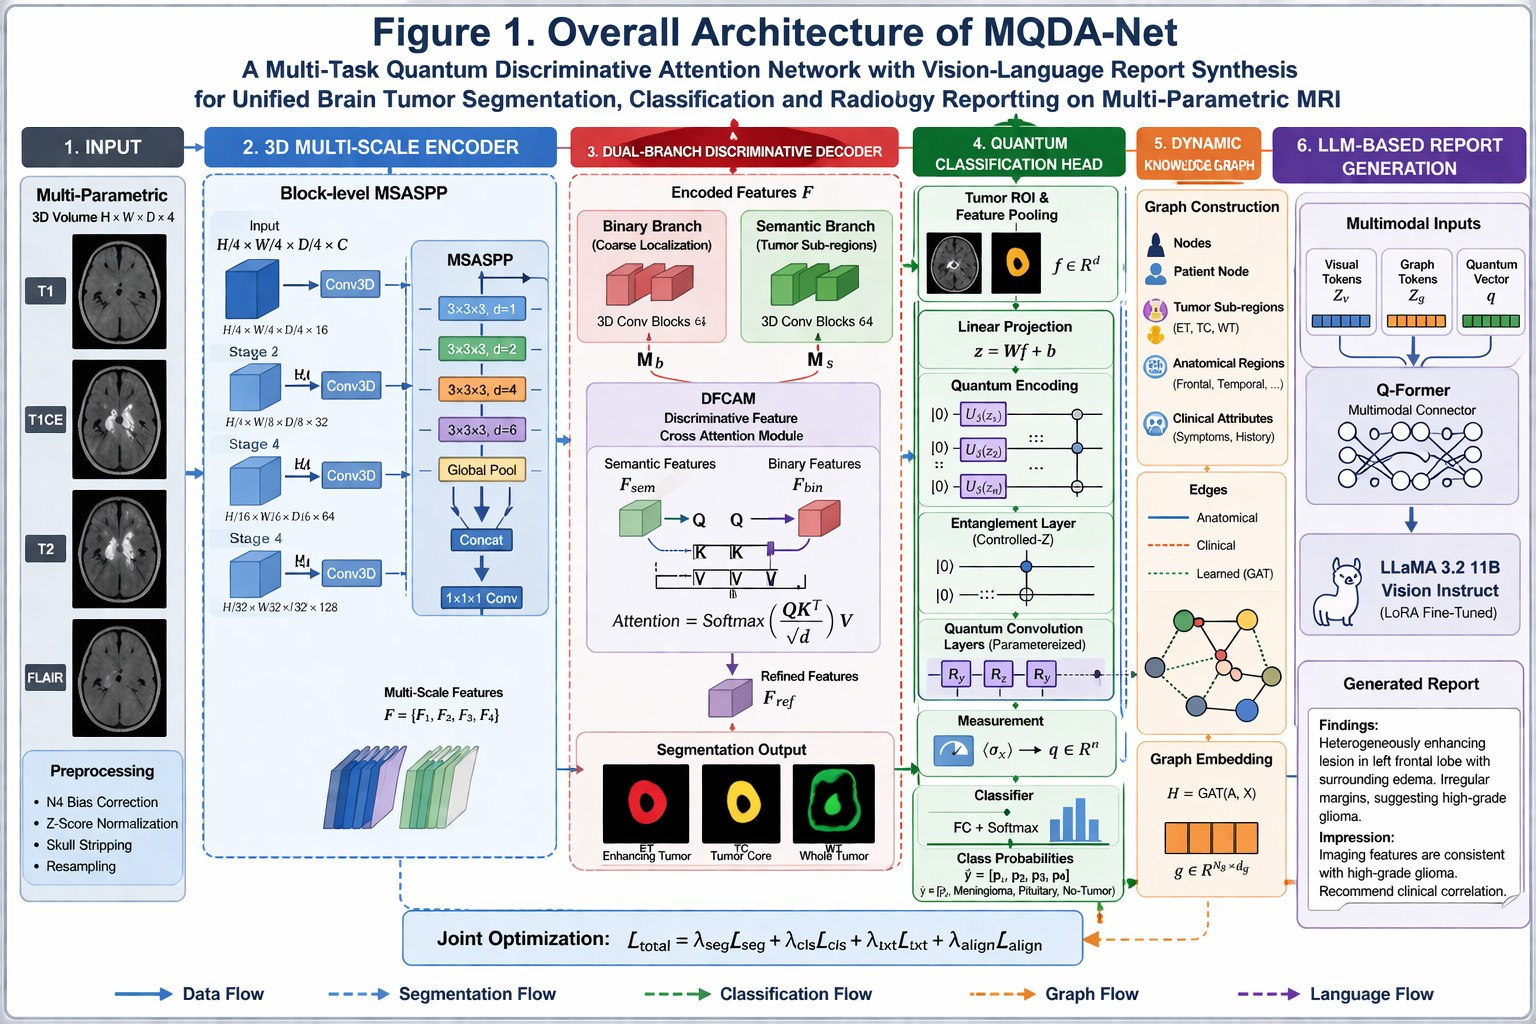
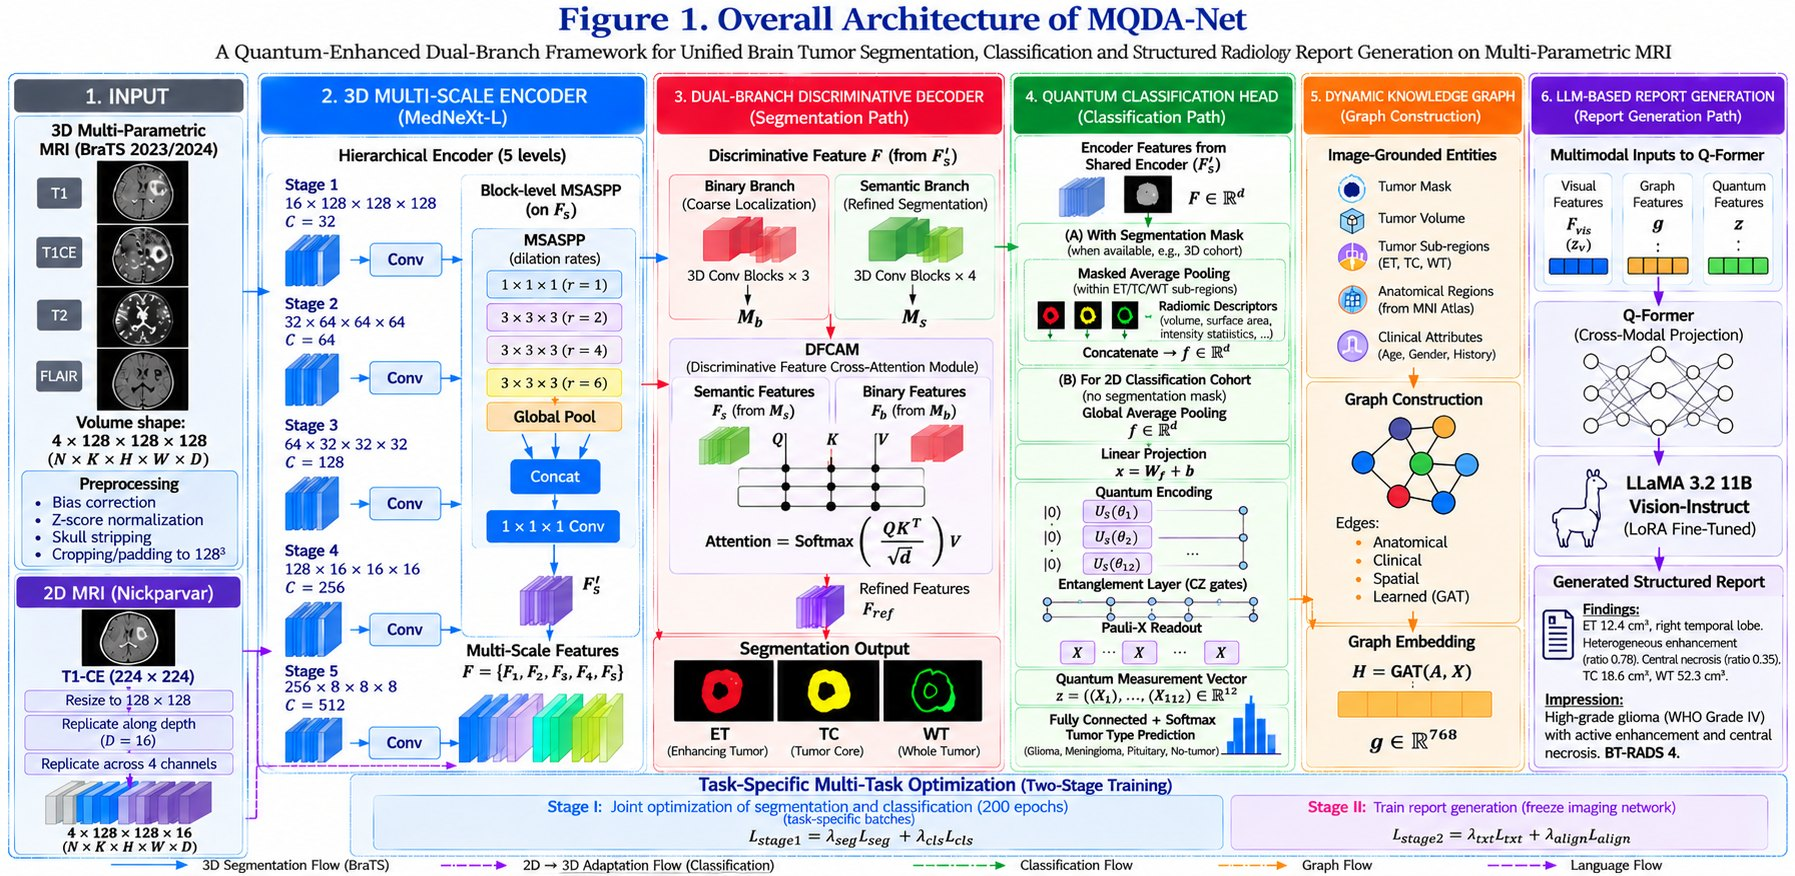
Use the revised manuscript figures
Replaces the architecture figure with the revised Figure 1, which shows the
2D->3D adaptation of the classification cohort, the two pooling paths into the
quantum head and the two-stage training, and adds the decoder, quantum/graph and
report-generation figures.

diff --git a/README.md b/README.md
@@ -2,13 +2,19 @@
 
 **A Quantum-Enhanced Dual-Branch Framework for Unified Brain Tumor Segmentation, Classification and Structured Radiology Report Generation**
 
-MQDA-Net trains three tasks together, in one training graph, from multi-parametric brain MRI (T1, T1-CE, T2, FLAIR):
+MQDA-Net places three tasks in one architecture over a shared encoder, from multi-parametric brain MRI (T1, T1-CE, T2, FLAIR):
 
 1. **Volumetric segmentation** of enhancing tumor, tumor core and whole tumor.
 2. **Tumor-type classification** into glioma, meningioma, pituitary tumor or no tumor.
 3. **Structured radiology reports** with volumes, laterality and lobe, impression and a BT-RADS score.
 
+The segmentation mask conditions the knowledge graph, and the graph embedding and quantum measurement vector condition report generation. Each pathway is optimized on the cohort that carries its annotations (Figure 1, bottom).
+
 ![MQDA-Net architecture](docs/figures/architecture.jpg)
+
+*Figure 1 — the six stages: input and preprocessing (with the deterministic 2D→3D adaptation of the classification cohort), the 3D multi-scale encoder with block-level MSASPP, the dual-branch decoder with DFCAM, the quantum classification head, the dynamic knowledge graph, and the Q-Former-conditioned LoRA report generator.*
+
+More module figures: [dual-branch decoder](docs/figures/dual_branch_decoder.jpg) · [quantum head and knowledge graph](docs/figures/quantum_head_and_graph.jpg) · [report generation](docs/figures/report_generation.jpg)
 
 | Module | Paper | Code |
 |---|---|---|
